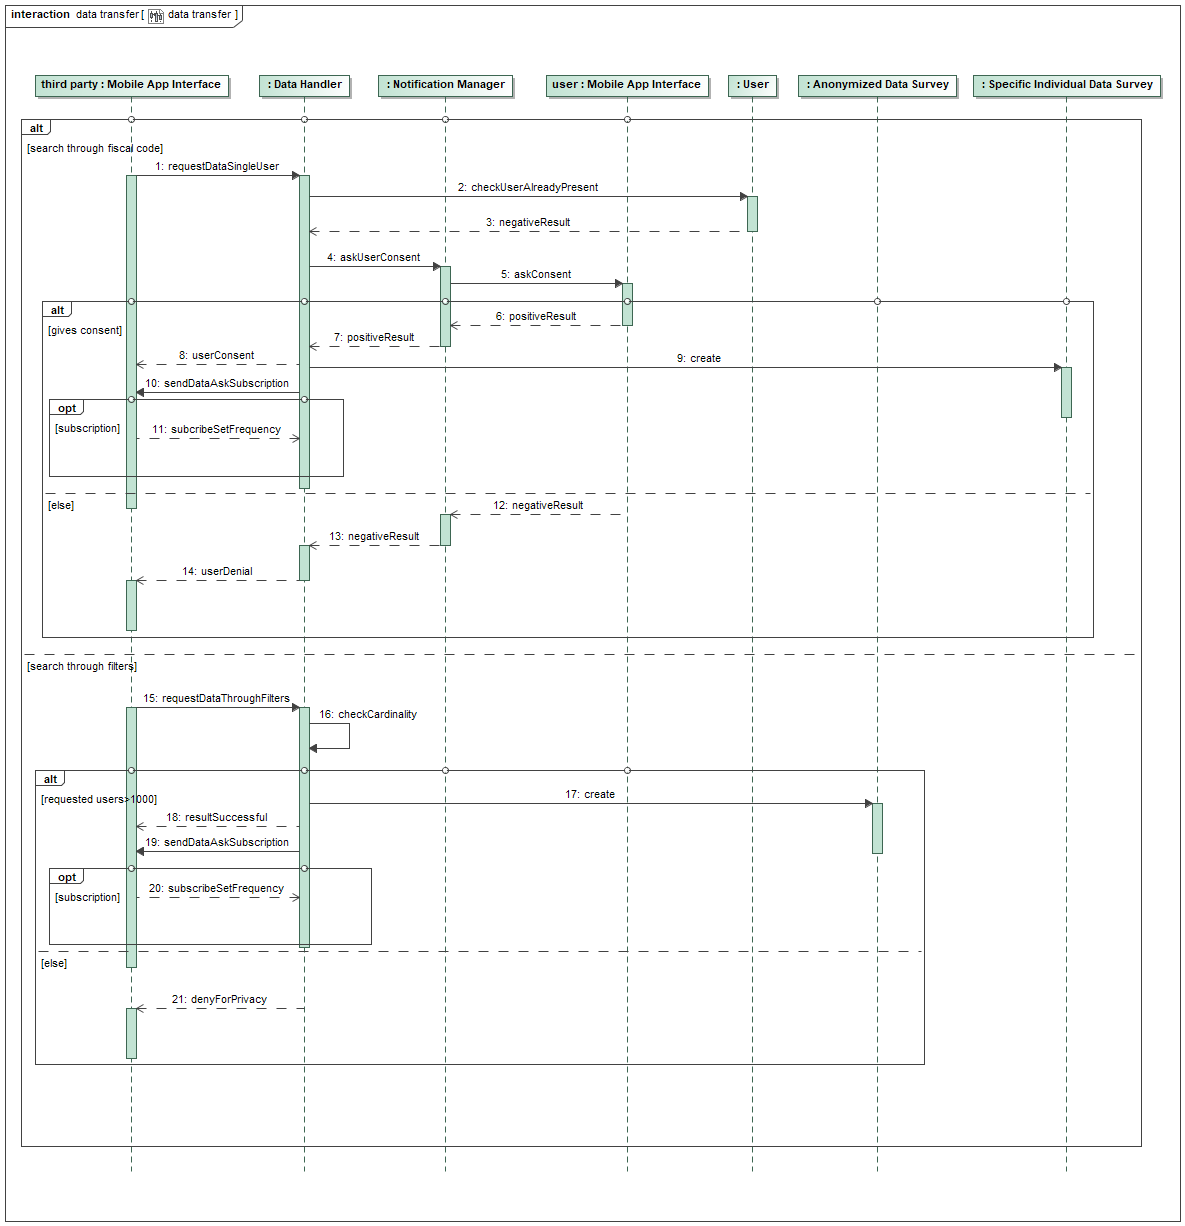
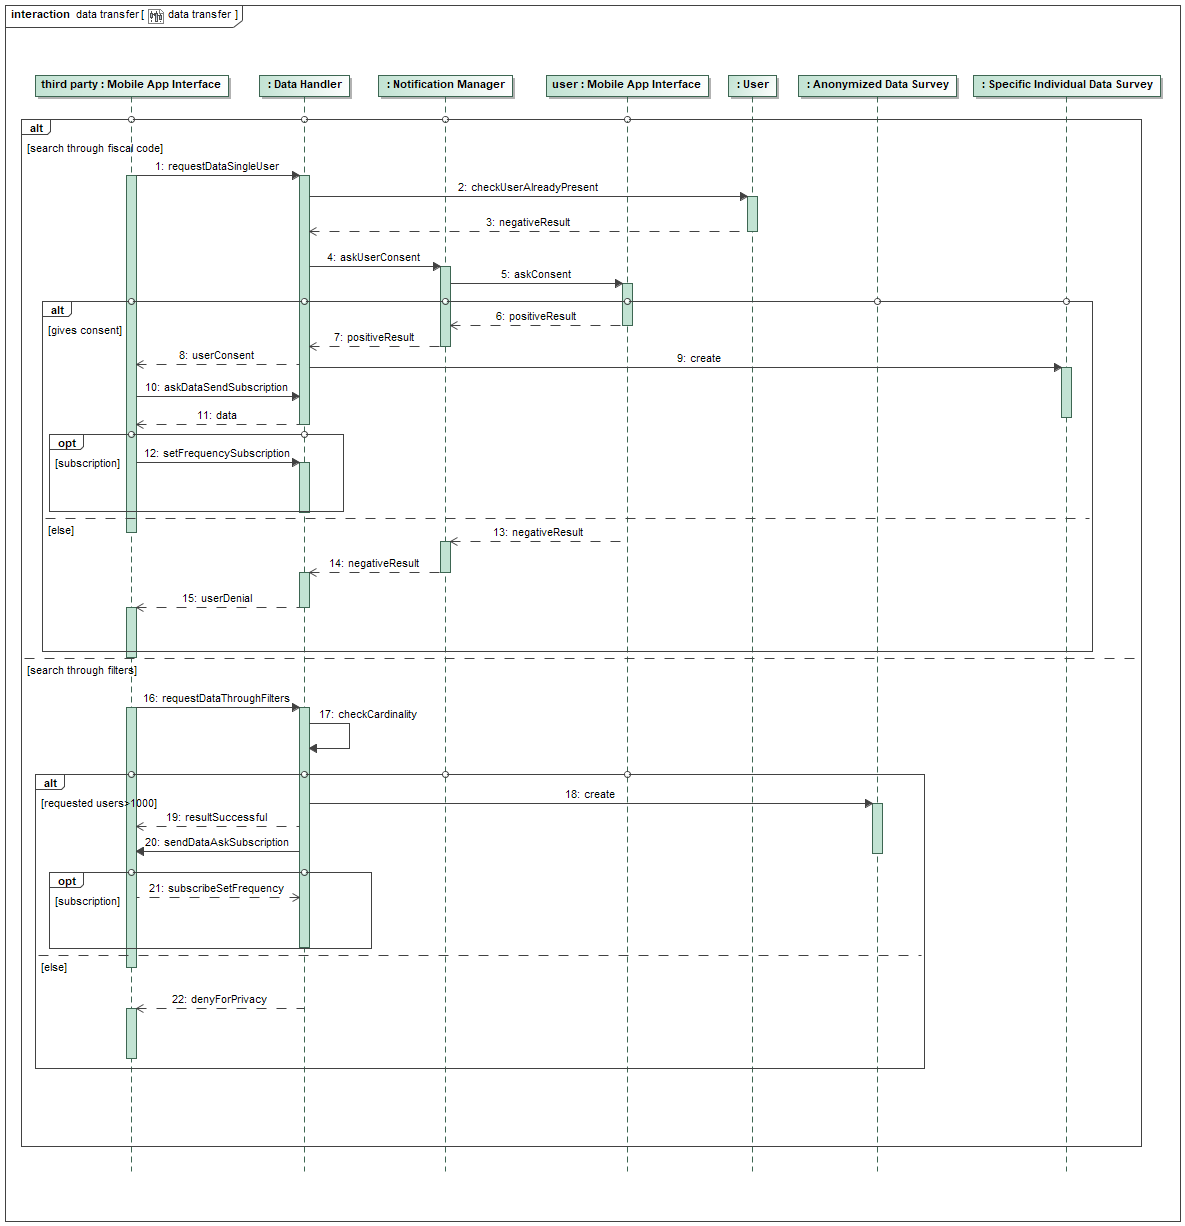
UI design section

diff --git a/DD/sections/architectural_design.tex b/DD/sections/architectural_design.tex
@@ -201,13 +201,13 @@ The communication between the Application Server and the databases is abstracted
 \captionof{figure}{Sequence diagram of a data request from a third party}
 \end{center}
 
+For sake of legibility in the previous sequence diagram only the case in which the third party doesn't have a survey with the searched user in it is shown. If the third party has already got it, the request for consent isn't forwarded, and the DataHandler gives directly the data requested with the possibility to subscribe to it. This fuctionality is given through the methods \texttt{askDataSendSubscription(subscription)} and \texttt{setFrequencySubscription(frequency)}, already shown in the diagram.
+
 \begin{center}
 \includegraphics[scale=0.4]{sections/diagrams/AutomatedSOS}
 \newline
 \captionof{figure}{Sequence diagram of an emergency situation}
-\end{center}
-
-For sake of legibility in the previous sequence diagram only the case in which the third party doesn't have a survey with the searched user in it is shown. If the third party has already got it, the request for consent isn't forwarded, and the DataHandler gives directly the data requested with the possibility to subscribe to it. This fuctionality is given through the methods \texttt{sendDataAskSubscription(healthData, position, subscriptonResult)} and \texttt{subscribeSetF\-requency(frequency)}, already shown in the diagram. 
+\end{center} 
 
 \begin{center}
 \includegraphics[scale=0.35]{sections/diagrams/run_organization}
@@ -236,6 +236,10 @@ The communication between Client (mobile application or script) and the Applicat
 
 \subsubsection{DBMSs}
 
+Since data are mapped into JPA entities, they will be stored persistently in the two databases. The relational one uses JPA over SQL to communicate with the database, while the non relational one uses Eclipse JNoSQL APIs.
+In order to reply to queries that require both the databeses content two or more distinct queries have to be merged on a more higher level. 
+
+
 \subsubsection{External Systems}
 
 As regards the mapping service, the Application Server must interface with Google Maps JavaScript API in order to display tracks and runners in real time and in a personalized way, SDK Maps for Android and SDK Maps for iOS, allow an easy way to configure and deploy location services on smartphone.
@@ -248,10 +252,14 @@ An example could be Nexmo, with its SMS \& Voice API RESTful service.
 Finally, applications that communicate with smart bands and wearable devices other than WearOS and watchOS are considered external systems. Therefore, they will provide their own APIs for communication with the Application Server.
 
 \subsubsection{Interfaces of Application Server subcomponents}
-\paragraph{DataHandler}
+\paragraph*{DataHandler}
 
 \begin{itemize}
 \item[ ]\texttt{requestDataSingleUser(fiscal code)}: method used to forward the request of data of a specific individual; it returns the reply (consent or deny).
+
+\item[ ]\texttt{askDataSendSubscription(subscription)}: method used to ask the data requested and assert if he/she wants to subscribe to those data at the same time; it returns the health data and the position.
+
+\item[ ]\texttt{setFrequencySubscription(frequency)}: method used to set the frequency on which the caller wants to receive the user's data; it returns nothing.
 
 \item[ ]\texttt{requestDataThroughFilters(location, address, age, gender, timeSlot)}: method us\-ed to send, in order to submit to check, the request of data of an anonymized group of persons; it returns the check result (success/deny for privacy).
 
@@ -260,7 +268,7 @@ Finally, applications that communicate with smart bands and wearable devices oth
 \item[ ]\texttt{notifyData(user, healthData, position)}: method used to send data to the Data Handler module, that will store them in the NoSQL database: as already stated, only the Application Server can access the databases; it returns nothing.
 \end{itemize}
 
-\paragraph{EmergencyManager}
+\paragraph*{EmergencyManager}
 
 \begin{itemize}
 \item[ ]\texttt{notifyData(user, healthData, position)}: this method is the same above, it corresponds to the observer pattern's "update", but here it's used to send data in order to check if the user is in danger; it returns nothing.
@@ -268,7 +276,7 @@ Finally, applications that communicate with smart bands and wearable devices oth
 \item[ ]\texttt{checkThresholds(healthData)}: method used to check if each type of health data stays between certain thresholds (which can be taken from health data themselves).
 \end{itemize}
 
-\paragraph{MapManager}
+\paragraph*{MapManager}
 
 \begin{itemize}
 \item[ ]\texttt{mapServiceRequest(locationName)}: method used to forward a request for a map; it returns the requested map.
@@ -280,7 +288,7 @@ Finally, applications that communicate with smart bands and wearable devices oth
 \item[ ]\texttt{updateLeaderboard(distancesSet)}: method used to recalculate the leaderboard according to the new runners' distances from the end on the path; it returns the new leaderboard.
 \end{itemize}
  
-\paragraph{NotificationManager}
+\paragraph*{NotificationManager}
 
 \begin{itemize}
 \item[ ]\texttt{askUserConsent(user, thirdParty)}: method used to send a notification through which is asked consent for a survey; it returns the user's reply (positive ore negative).
@@ -302,13 +310,13 @@ Finally, applications that communicate with smart bands and wearable devices oth
 \item[ ]\texttt{sendCodeEmail(user, code)}: method used to make NotificationManager send an e-mail with an identification code in order to create a new password; it returns nothing.
 \end{itemize}
 
-\paragraph{PaymentGateway}
+\paragraph*{PaymentGateway}
 
 \begin{itemize}
 \item[ ]\texttt{newPayment(userCredentials, paymentMethod)}: method used to forward a payment request; it returns the payment result (successful or unsuccessful).
 \end{itemize}
 
-\paragraph{RunManager}
+\paragraph*{RunManager}
 
 \begin{itemize}
 \item[ ]\texttt{stagesChosen(stagesSet)}: method used to send the track stages to submit to check; it returns nothing.
@@ -320,7 +328,7 @@ Finally, applications that communicate with smart bands and wearable devices oth
 \item[ ]\texttt{checkValidity(form)}: method used to check if the form is filled correctly and it's therefore possible to create the run; it returns the check result (positive or negative).
 \end{itemize}
 
-\paragraph{UserManager}
+\paragraph*{UserManager}
 
 \begin{itemize}
 \item[ ]\texttt{requestRegistration(e-mail, username, password)}: method used to forward a request to register to the application, it returns the result (deny or success).
@@ -340,12 +348,12 @@ Finally, applications that communicate with smart bands and wearable devices oth
 
 \subsection{Selected architectural styles and patterns}
 \subsubsection{Architectural Styles}
-\paragraph{Client and Server}
+\paragraph*{Client and Server}
 The main architectural style adopted for TrackMe system is the Client-Server one, the most well known and used architectural style for distributed applications. It will be adopted in the 3-tier variant, with the Presentation layer on the client (the mobile app), the Application layer on the Application Server and the Data layer on the Database Server.
 
 The main advantages of this choice are the clear decoupling between data and logic, the possibility to increase the portability reaching clients in the most easy way and the availability of a lot of COTS components to  develop the system in a very cost-effective way.
 
-\paragraph{Layers}
+\paragraph*{Layers}
 The system will also be divided into 3 Layers:
 \begin{itemize}
 \item Presentation Layer: accessible from users through their mobile application.
@@ -354,14 +362,14 @@ The system will also be divided into 3 Layers:
 \end{itemize}
 Software is divided in layers for decoupling and for better code maintainability. In this way different developers can focus on different tasks abstracting from other layers.
 
-\paragraph{Thin Client}
+\paragraph*{Thin Client}
 The thin client approach has been followed while designing the interaction among users’ machines and the system itself. All the main logic is implemented by the Application Server that has a sufficient computing power and can manage concurrency issues in an efficient way. On the other hand, the mobile application are in charge of presentation only and they do not involve decision logic.
 
 \subsubsection{Design Patterns}
-\paragraph{Model-View-Controller}
+\paragraph*{Model-View-Controller}
 The mobile (and wearable) application follow the MVC (Model-View-Controller) software design pattern, that better supports the Client-Server architecture, because it closely follows the division between data (Model), logic (Controller) and presentation (View) present also in our 3-tier architecture.
 
-\paragraph{Observer}
+\paragraph*{Observer}
 The observer or publish-subscribe pattern will also be used, allowing the various components of the system to register themselves and react to event raised by other components. This will be useful in implementing the EmergencyManager that always has to be notified in order to compare data and thresholds.
 
 \subsection{Other design decisions}

diff --git a/DD/sections/UI_design.tex b/DD/sections/UI_design.tex
@@ -1,0 +1,21 @@
+\subsection{UX Diagrams}
+
+The RASD already presented the main mobile interfaces for generic users and third parties, in this section the relations among them is shown in detail. UX diagrams below explain which forms have to be completed in which screen, and what flow is followed by the latters. Obviously, only mobile interfaces are dealt with: the script flow is the same as the third parties' UX Diagram.
+
+\bigskip
+The two UX Diagrams below are one for the generic user experience and the other for the third party experience.
+\bigskip
+
+\begin{center}
+\includegraphics[scale=0.3]{sections/diagrams/UX}
+\newline
+\captionof{figure}{UX Diagram of a the Mobile Application-generic user}
+\end{center}
+
+As regards the race partecipation, the two "partecipate()" refers to the partecipation when a payment is required and when it doesn't. So, according to the race organization payment request, "partecipate()" will lead only to one screen, exclusively.
+
+\begin{center}
+\includegraphics[scale=0.5]{sections/diagrams/thirdPartyUX}
+\newline
+\captionof{figure}{UX Diagram of a the Mobile Application-third party}
+\end{center}

diff --git a/DD/main.tex b/DD/main.tex
@@ -58,7 +58,7 @@
 
 \clearpage
 \section{User Interface design}
-%\input{sections/UI_design.tex}
+\input{sections/UI_design.tex}
 
 \clearpage
 \section{Requirements traceability}
